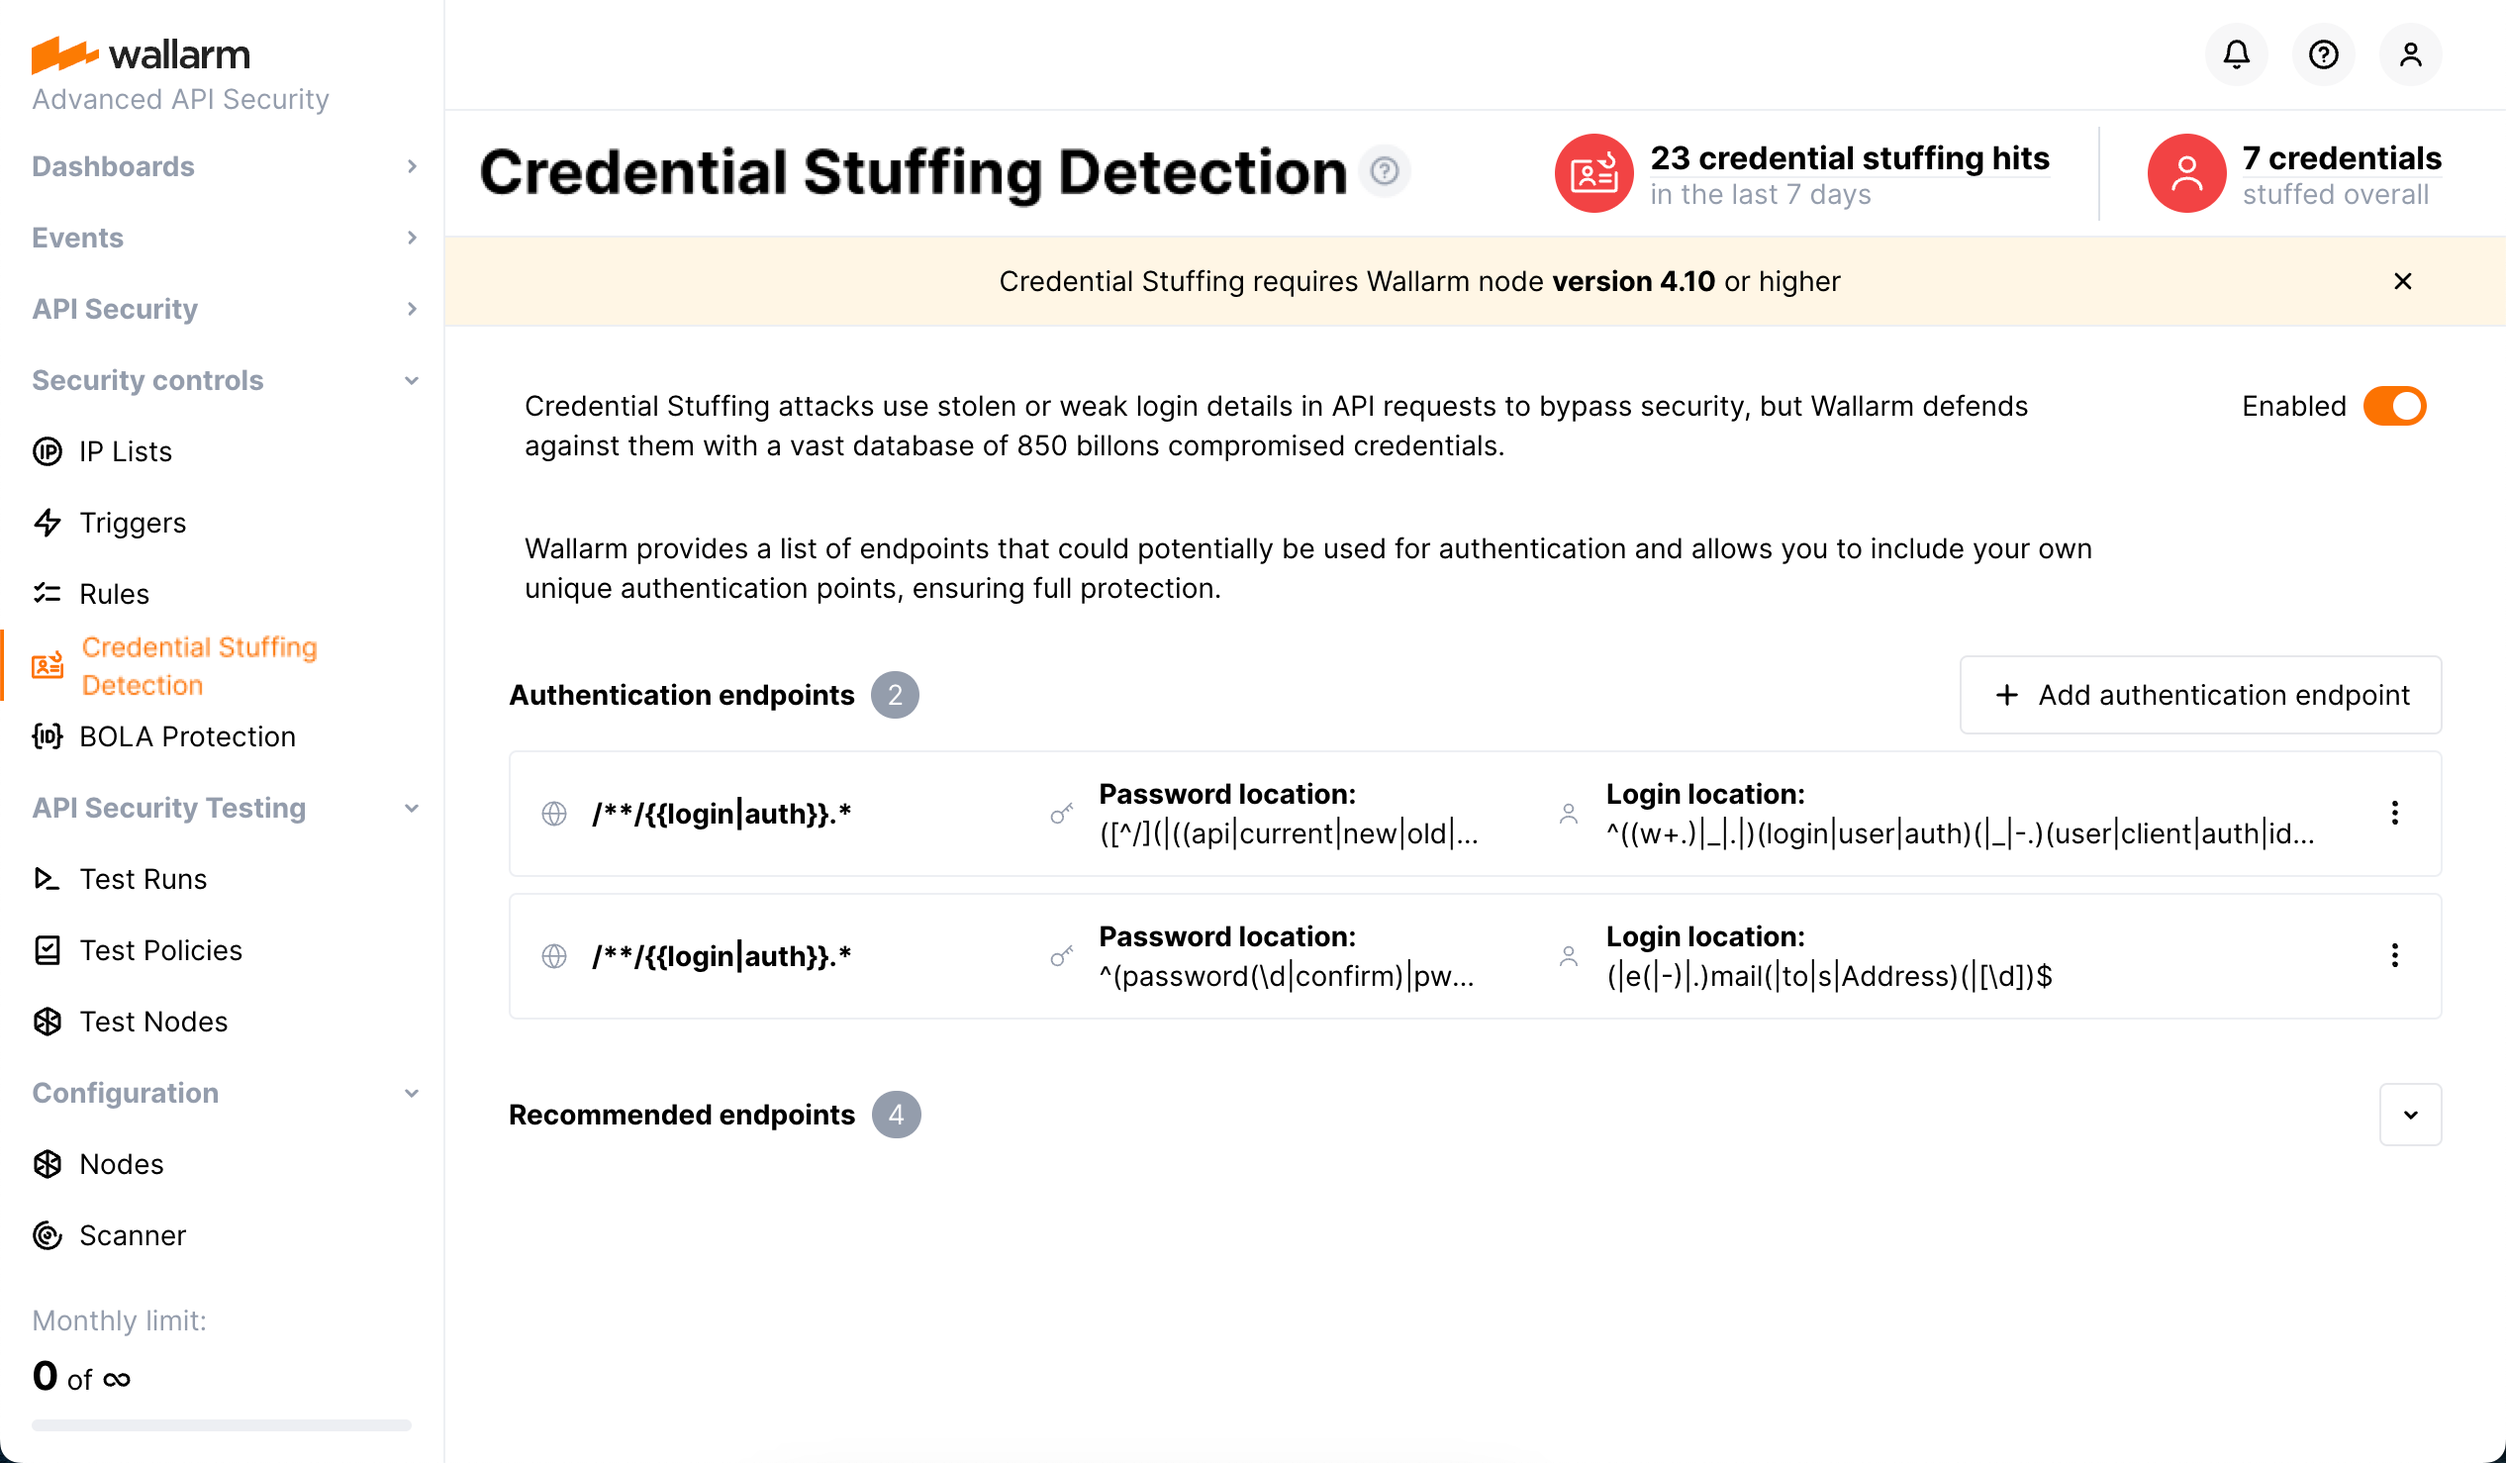
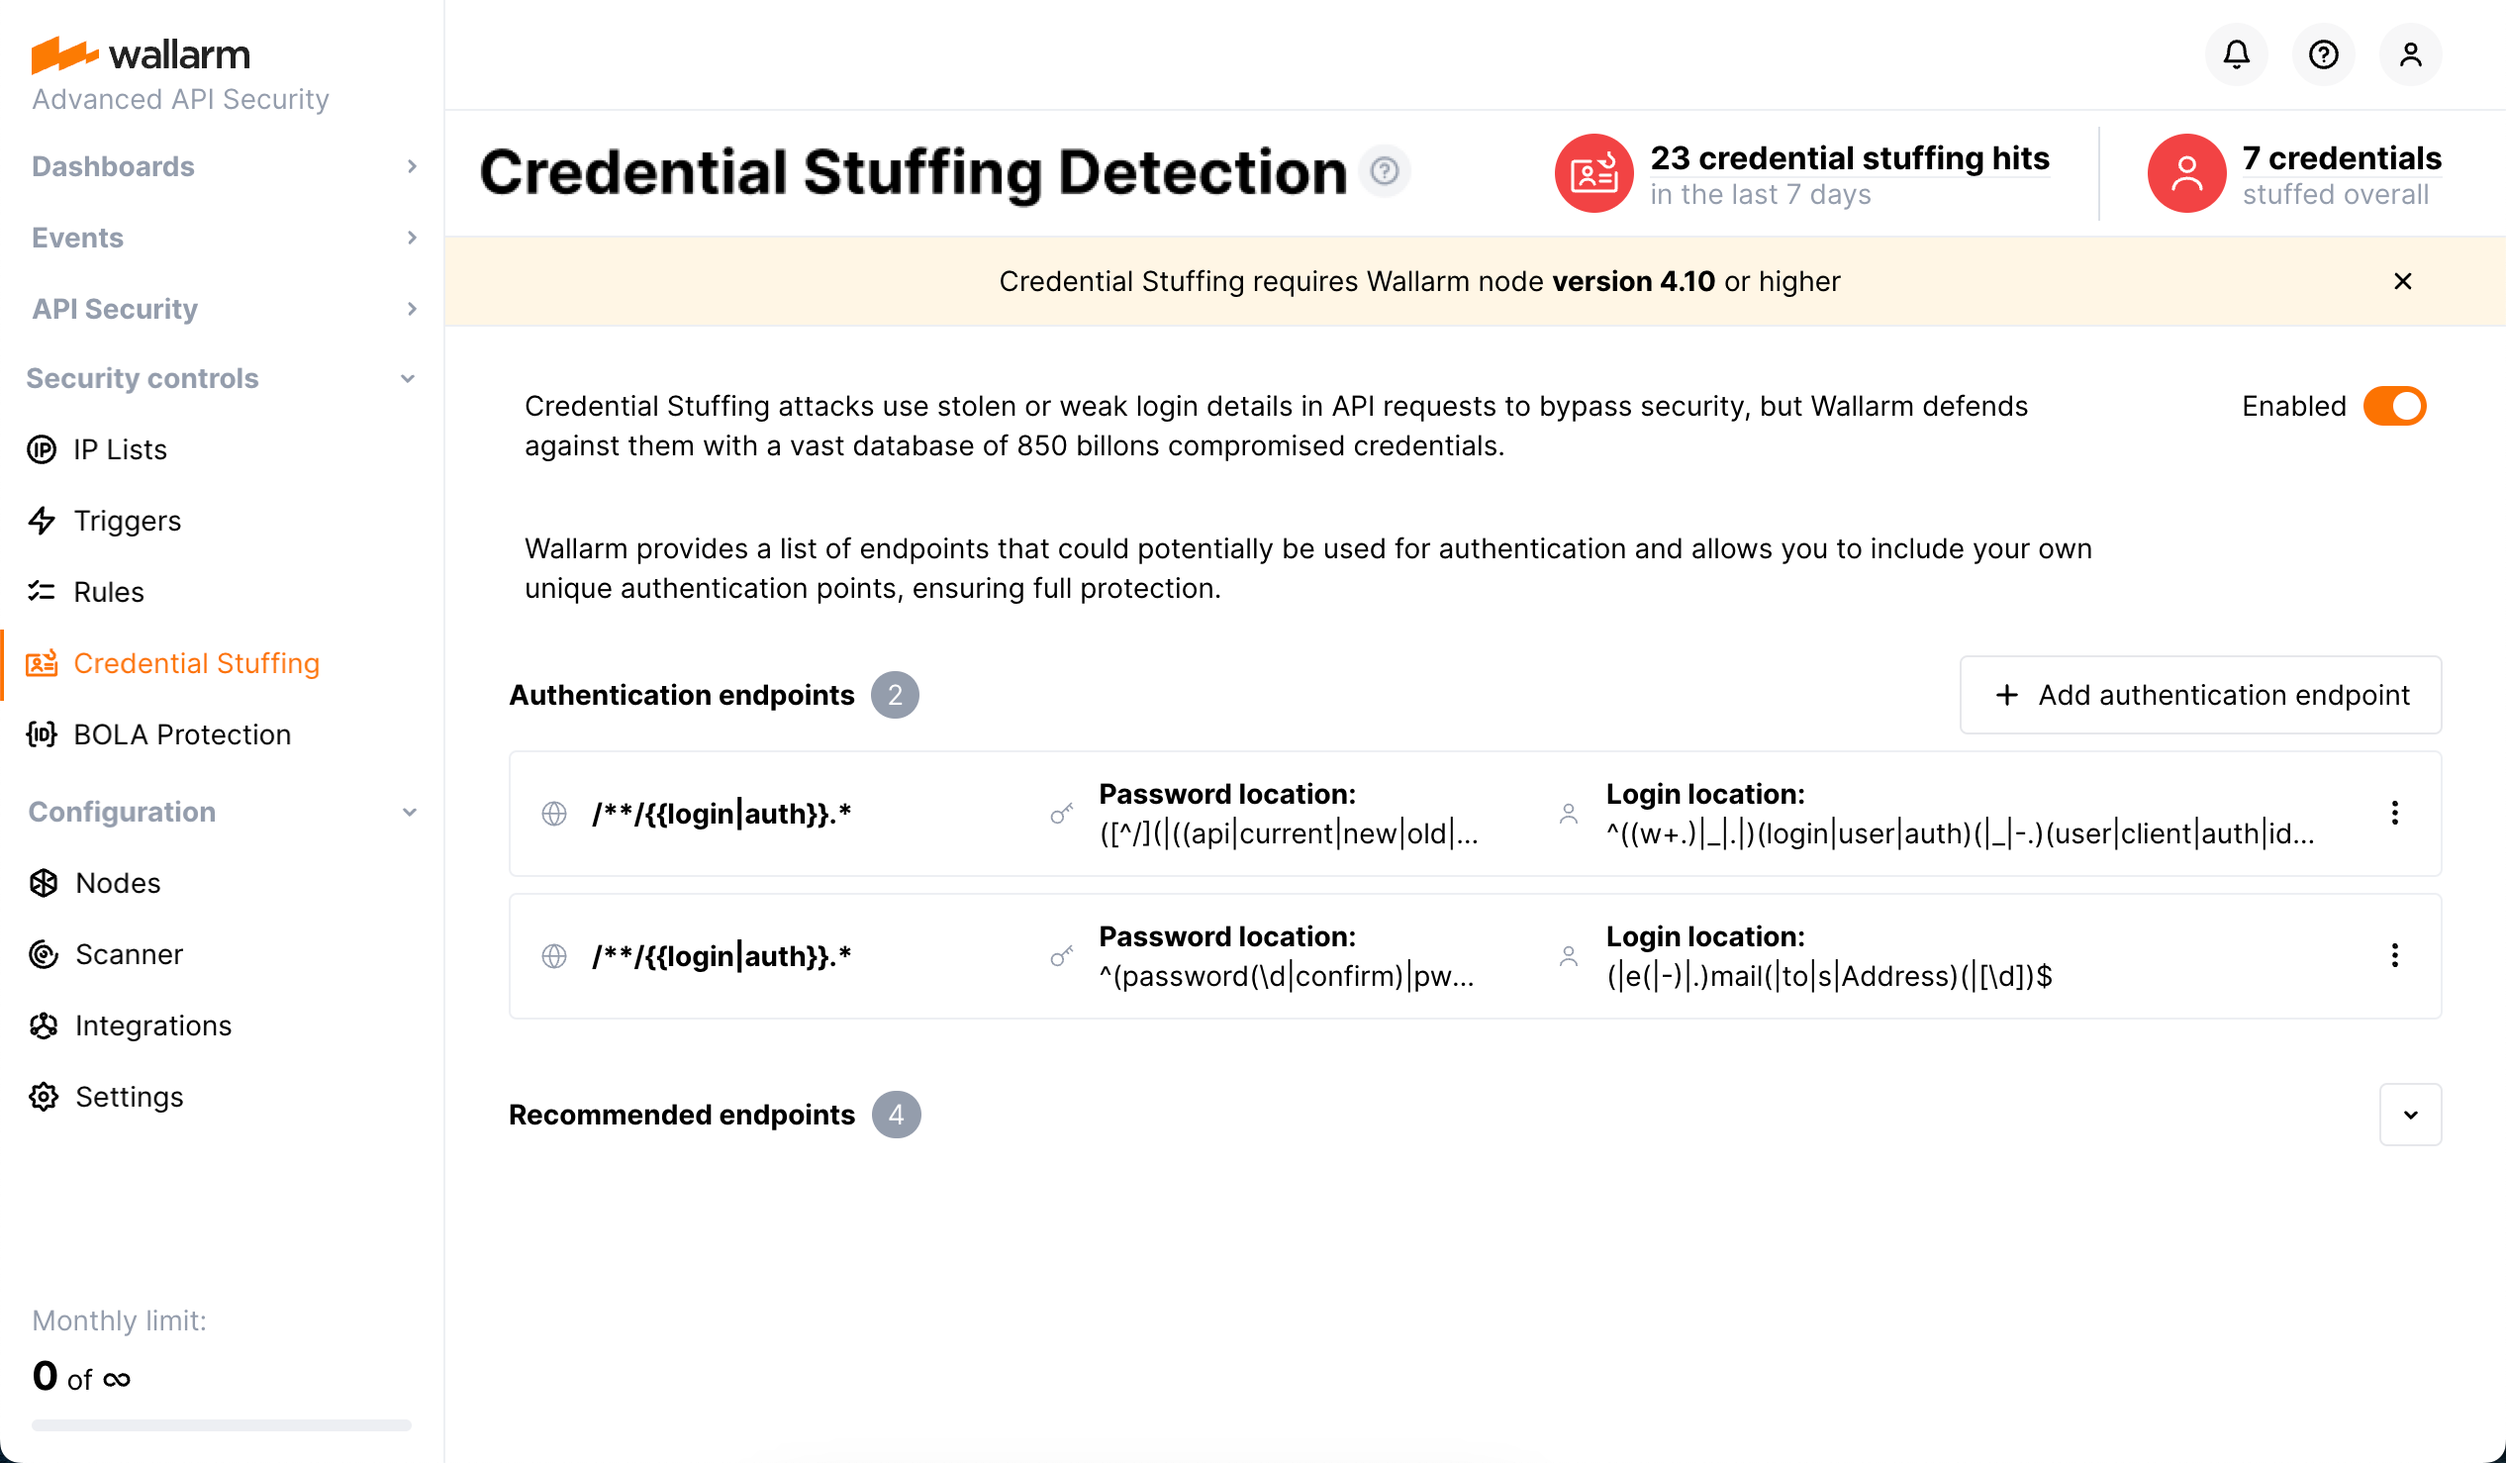
DOCS-2251 Fixes due to comments

diff --git a/docs/latest/about-wallarm/credential-stuffing.md b/docs/latest/about-wallarm/credential-stuffing.md
@@ -1,50 +1,47 @@
 # Credential Stuffing Detection <a href="../subscription-plans/#subscription-plans"><img src="../../images/api-security-tag.svg" style="border: none;"></a>
 
-[Credential stuffing](https://owasp.org/www-community/attacks/Credential_stuffing) is the automated injection of stolen or weak username and password pairs (credentials) into website login forms, in order to fraudulently gain access to user accounts.
+[Credential stuffing](https://owasp.org/www-community/attacks/Credential_stuffing) is the automated injection of stolen or weak username/email and password pairs (credentials) into website login forms, in order to fraudulently gain access to user accounts. This article describes how to detect this type of threats using Wallarm.
 
-Wallarm's **Credential Stuffing Detection** gathers and displays on time the information about your application's compromised and weak credentials and attempts to use them and allows getting instant notification about such attempts.
+Wallarm's **Credential Stuffing Detection** collects and displays real-time information about compromised and weak credentials in your application, as well as attempts to use them. It also enables instant notifications about such attempts.
 
 Knowledge of accounts with stolen or weak passwords allows you to initiate measures to secure these accounts' data, like communicating with account owners, temporarily suspending access to the accounts, etc.
 
 ![Wallarm Console - Credential Stuffing](../images/about-wallarm-waf/credential-stuffing/credential-stuffing.png)
 
-Wallarm does not block requests with compromised credentials to avoid blocking legitimate users even if their passwords are weak or were compromised. However, note that credential stuffing attempts can and will be blocked if they are part of detected malicious bot activity and you have enabled the [API Abuse Prevention](../about-wallarm/api-abuse-prevention.md) module.
+Wallarm does not block requests with compromised credentials to avoid blocking legitimate users even if their passwords are weak or were compromised. However, note that credential stuffing attempts can and will be blocked if: 
+
+* They are part of detected malicious bot activity and you have enabled the [API Abuse Prevention](../about-wallarm/api-abuse-prevention.md) module.
+* They are part of requests with other [attack signs](../attacks-vulns-list.md) (such as [SQLi](../attacks-vulns-list.md#sql-injection) and others of similar type).
 
 ## Enabling
 
 To enable Wallarm's **Credential Stuffing Detection**:
 
-1. Make sure your [subscription plan](../about-wallarm/subscription-plans.md#subscription-plans) includes **Credential Stuffing Detection**. To change the subscription plan, please send a request to [sales@wallarm.com](mailto:sales@wallarm.com).
-1. Make sure you have Wallarm node version 4.10 or higher. If necessary, consider upgrading.
+1. Make sure your [subscription plan](../about-wallarm/subscription-plans.md#subscription-plans) includes **Credential Stuffing Detection**. To change the subscription plan, please send a request to [sales@wallarm.com](mailto:sales@wallarm.com?subject=Change%20Wallarm%20subscribtion%20plan%20to%20include%20Credential%20Stuffing%20Detection&body=Hello%20Wallarm%20Sales%20Team%2C%0AI%27m%20writing%20to%20request%20the%20change%20of%20Wallarm%20subscribtion%20plan%20to%20the%20one%20that%20includes%20the%20Credential%20Stuffing%20Detection.%0AI%20would%20be%20happy%20to%20schedule%20a%20call%20with%20you%20to%20discuss%20my%20requirements%20in%20detail.%0AThank%20you%20for%20your%20time%20and%20assistance.).
+1. Make sure you have Wallarm node [version 4.10](../updating-migrating/what-is-new.md) or higher. If necessary, consider upgrading.
 1. Check that your user's [role](../user-guides/settings/users.md#user-roles) allows configuring **Credential Stuffing Detection**.
-1. In Wallarm Console → **Credential Stuffing Detection**, enable the functionality (disabled by default).
+1. In Wallarm Console → **Credential Stuffing**, enable the functionality (disabled by default).
 
 Once **Credential Stuffing Detection** is enabled, a [configuration](#configuring) is needed for it to start working.
 
 ## Configuring
 
-You need to form the list of authentication endpoints to be checked for attempts of compromised credentials usage. If you use the [API Discovery](../api-discovery/overview.md) module, Wallarm provides a list of endpoints detected by API Discovery that could potentially be used for authentication. 
+You need to form the list of authentication endpoints to be checked for attempts of compromised credentials usage. To form the list, in Wallarm Console, click **Credential Stuffing** to access the **Credential Stuffing Detection** section.
 
-!!! info "Adding recommended endpoints"
-    It is recommended to include endpoints detected by API Discovery to authentication endpoint list that will be checked by **Credential Stuffing Detection**.
+There are two ways of adding endpoints to the list:
 
-You can also include your own unique authentication endpoints, ensuring full protection.
+* From the **Recommended endpoints** list - if you use the [API Discovery](../api-discovery/overview.md) module, Wallarm automatically identifies endpoints that could be used for authentication.
 
-To form the list of authentication endpoints:
+    !!! info "Adding recommended endpoints"
+        It is recommended to always include endpoints detected by API Discovery to authentication endpoint list that will be checked by **Credential Stuffing Detection**.
 
-1. In Wallarm Console, access the **Credential Stuffing Detection** section.
-1. Do one of the following:
+* Manually - you can also include your own unique authentication endpoints, ensuring full protection. When adding manually, set [URI](../user-guides/rules/add-rule.md#uri-constructor) and the way of searching for authentication parameters:
 
-    * To add the authentication endpoint found by API Discovery, expand the **Recommended endpoints** list, then click **Apply this recommendation** for endpoints you want to use.
-    * To add your own unique authentication endpoint, click **Add authentication endpoint**, set [URI](../user-guides/rules/add-rule.md#uri-constructor) and the way of searching for authentication parameters:
+    * By **Exact location of parameters** - you will need to indicate the exact endpoint [request points](../user-guides/rules/add-rule.md#points) where password and login are located.
 
-        * By **Exact location of parameters** - you will need to indicate the exact endpoint request points where password and login are located.
+        ![Credential Stuffing - Add authentication endpoint - Exact location](../images/about-wallarm-waf/credential-stuffing/credential-stuffing-add-endpoint-exact-location.png)
 
-            ![Credential Stuffing - Add authentication endpoint - Exact location](../images/about-wallarm-waf/credential-stuffing/credential-stuffing-add-endpoint-exact-location.png)
-
-        * By **Regular expression** - endpoint parameters with password and login will be searched using [regular expression](../user-guides/rules/add-rule.md#condition-type-regex).
-
-1. Apply the changes.
+    * By **Regular expression** - endpoint parameters with password and login will be searched using [regular expression](../user-guides/rules/add-rule.md#condition-type-regex).
 
 ## Viewing compromised credentials usage attempts
 
@@ -64,7 +61,7 @@ To get immediate notifications about attempts to use the compromised credentials
 
 You can narrow notifications by application or host that you want to monitor and by the response type.
 
-**Trigger example: notification about attempt to use compromised credentials in Slack**
+**Trigger example: notification about an attempt to use compromised credentials in Slack**
 
 In this example, if new attempt to use compromised credentials is detected for the `example.com` API host, the notification about this will be sent to your configured Slack channel.
 

diff --git a/docs/latest/user-guides/search-and-filters/use-search.md b/docs/latest/user-guides/search-and-filters/use-search.md
@@ -100,7 +100,7 @@ Specify in the search string:
 * `ssrf`: to search for [Server‑side Request Forgery (SSRF) and attacks](../../attacks-vulns-list.md#serverside-request-forgery-ssrf).
 * `blocked_source`: to search for attacks from **manually** [denylisted](../../user-guides/events/analyze-attack.md#analyze-requests-from-denylisted-ips) IPs.
 * `multiple_payloads`: to search for attacks detected by the [Number of malicious payloads](../../user-guides/triggers/triggers.md#step-1-choosing-a-condition) trigger and blocked requests from IPs [denylisted](../../user-guides/events/analyze-attack.md#analyze-requests-from-denylisted-ips) because of the attacks of this type.
-* `credential_stuffing`: to search for attempts to use the stolen credentials ([credential stuffing](../../about-wallarm/credential-stuffing.md)).
+* `credential_stuffing`: to search for attempts to use stolen authentication credentials ([credential stuffing](../../about-wallarm/credential-stuffing.md)).
 
 An attack name can be specified in both uppercase and lowercase letters: `SQLI`, `sqli`, and `SQLi` are equally correct.
 
